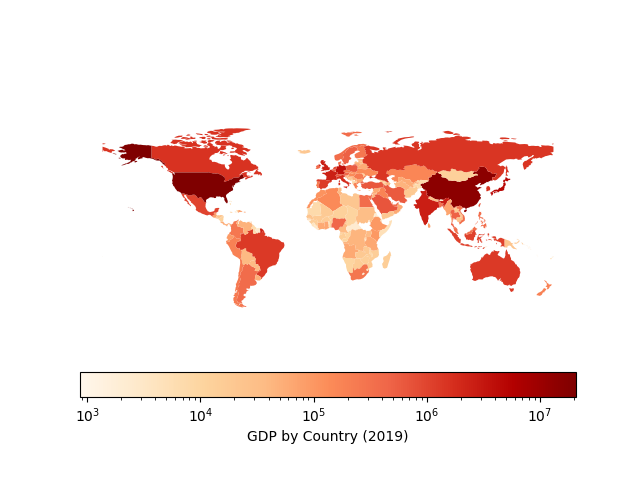
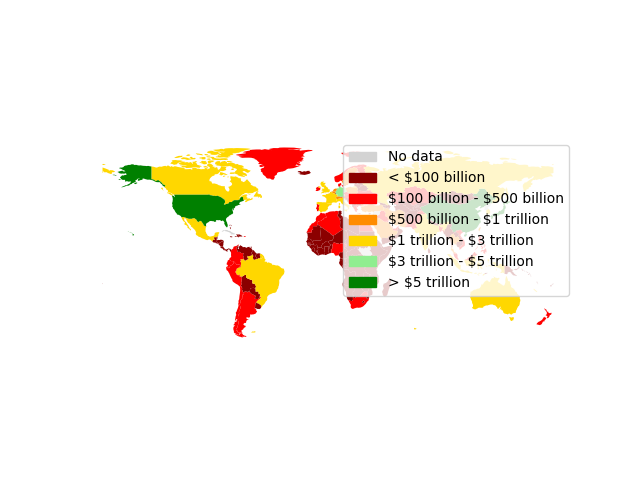
updated mapping capabilities

Changed region(s): [[0.1562, 0.25, 0.9062, 0.7188], [0.125, 0.75, 0.9062, 0.9375], [0.8438, 0.6562, 0.875, 0.6875]]

diff --git a/main.py b/main.py
@@ -1,11 +1,14 @@
 import pandas as pd
 import weo
 import datetime
+import math
 # import datapungibea
 import matplotlib.pyplot as plt
-import matplotlib
+import matplotlib.colors as mcolors
+import matplotlib.patches as mpatches
 import fiona
 import geopandas as gp
+from numpy import nan as NaN
 
 
 class EconomicData:
@@ -79,48 +82,87 @@ class EconomicData:
         gdf.columns = ['region', 'country_code', 'geometry']
 
         # drop row corresponding to Antarctica
-        # gdf = gdf.drop(gdf.index[159])
+        gdf = gdf.drop(gdf.index[159])
+
+        # substitute West Bank & Gaza data for Palestine
+        gdf.loc[gdf['region'] == 'Palestine', 'country_code'] = 'WBG'
 
         # read country data
-        data = self.data[~self.data['State?']][['Country Code', 'GDP']]
+        data = self.data[self.data['Type'] == 'Country'][['Code', str(year)]]
         data.columns = ['country_code', 'gdp']
 
-        data = gdf.merge(data, on='country_code', how='left').dropna()
+        data = pd.merge(gdf, data, on='country_code', how='outer')
 
         # combine regions into self.data as designated by IMF
-        data['Region'] = data['region']
+        data['nation'] = data['region']
         replacements = {
             'Kosovo': 'Republic of Serbia',
+            'Northern Cyprus': 'Cyprus',
             'Western Sahara': 'Morocco',
             'Greenland': 'Denmark',
             'Somaliland': 'Somalia',
             'Falkland Islands': 'United Kingdom',
             'French Southern and Antarctic Lands': 'France',
+            # 'Puerto Rico': 'United States',
             'New Caledonia': 'France'
         }
         for item in replacements:
-            data.loc[data['region'] == item, 'Region'] = replacements[item]
-        data = data.dissolve(by='Region')
+            data.loc[data['region'] == item, 'nation'] = replacements[item]
+        data = data.dissolve(by='nation', aggfunc='sum')
+        data = data.replace({0:NaN})
 
         fig, ax = plt.subplots()
         ax.axis('off')
-        print(data)
+
+        def get_labels():
+            units = ['billion', 'trillion']
+            labels = ['No data']
+
+            def format_bound(bound):
+                seps_needed = int(math.log(bound + 1, 10)) // 3
+                unit = units[seps_needed - 1]
+                new_bound = int(bound / (10 ** (3 * seps_needed)))
+                return f'\${new_bound} {unit}'
+
+            for x in range(1, len(boundaries) - 1):
+                lower_bound = format_bound(boundaries[x])
+
+                if x == len(boundaries) - 2:
+                    return labels + [f'> {lower_bound}']
+
+                upper_bound = format_bound(boundaries[x + 1])
+
+                if x == 1:
+                    labels.append(f'< {upper_bound}')
+                else:
+                    labels.append(f'{lower_bound} - {upper_bound}')
+
+        if False:
+            cmap = 'OrRd'
+            norm = mcolors.LogNorm(vmin=data['gdp'].min(), vmax=data['gdp'].max())
+        else:
+            cmap = mcolors.ListedColormap(['lightgrey', 'darkred', 'red', 'darkorange', 'gold', 'lightgreen', 'green'])
+            boundaries = [-1, 0, 100_000, 500_000, 1_000_000, 3_000_000, 5_000_000, float('inf')]
+            norm = mcolors.BoundaryNorm(boundaries, cmap.N, clip=True)
+            legend_colors = [mpatches.Patch(color=cmap(b)) for b in range(len(boundaries))]
+            plt.legend(legend_colors, get_labels())
+
 
         # see https://geopandas.org/mapping.html
         data.plot(
             column='gdp',
             ax=ax,
-            legend=True,
-            legend_kwds={
-                'label': 'GDP by Country (' + str(year) + ')',
-                'orientation': 'horizontal'
-            },
-            # scheme='quantiles',
-            #missing_kwds={
-            #    'color': 'lightgrey'
+            #legend=True,
+            #legend_kwds={
+            #    'label': 'GDP by Country (' + str(year) + ')',
+            #    'orientation': 'horizontal'
             #},
-            cmap='OrRd',
-            norm=matplotlib.colors.LogNorm(vmin=data['gdp'].min(), vmax=data['gdp'].max())
+            #scheme='quintiles',
+            missing_kwds={
+                'color': 'lightgrey'
+            },
+            cmap=cmap,
+            norm=norm
         )
         plt.savefig('out/maps/world_economies.png')
         plt.show()
@@ -261,9 +303,9 @@ class Reference:
 def main():
     pd.set_option('display.max_rows', None)
     ed = EconomicData()
-    ed.make_chart()
+    # ed.make_chart()
+    ed.make_map(2019)
     # ed.write_wikitable()
-    # ed.make_map(2019)
 
 
 main()
